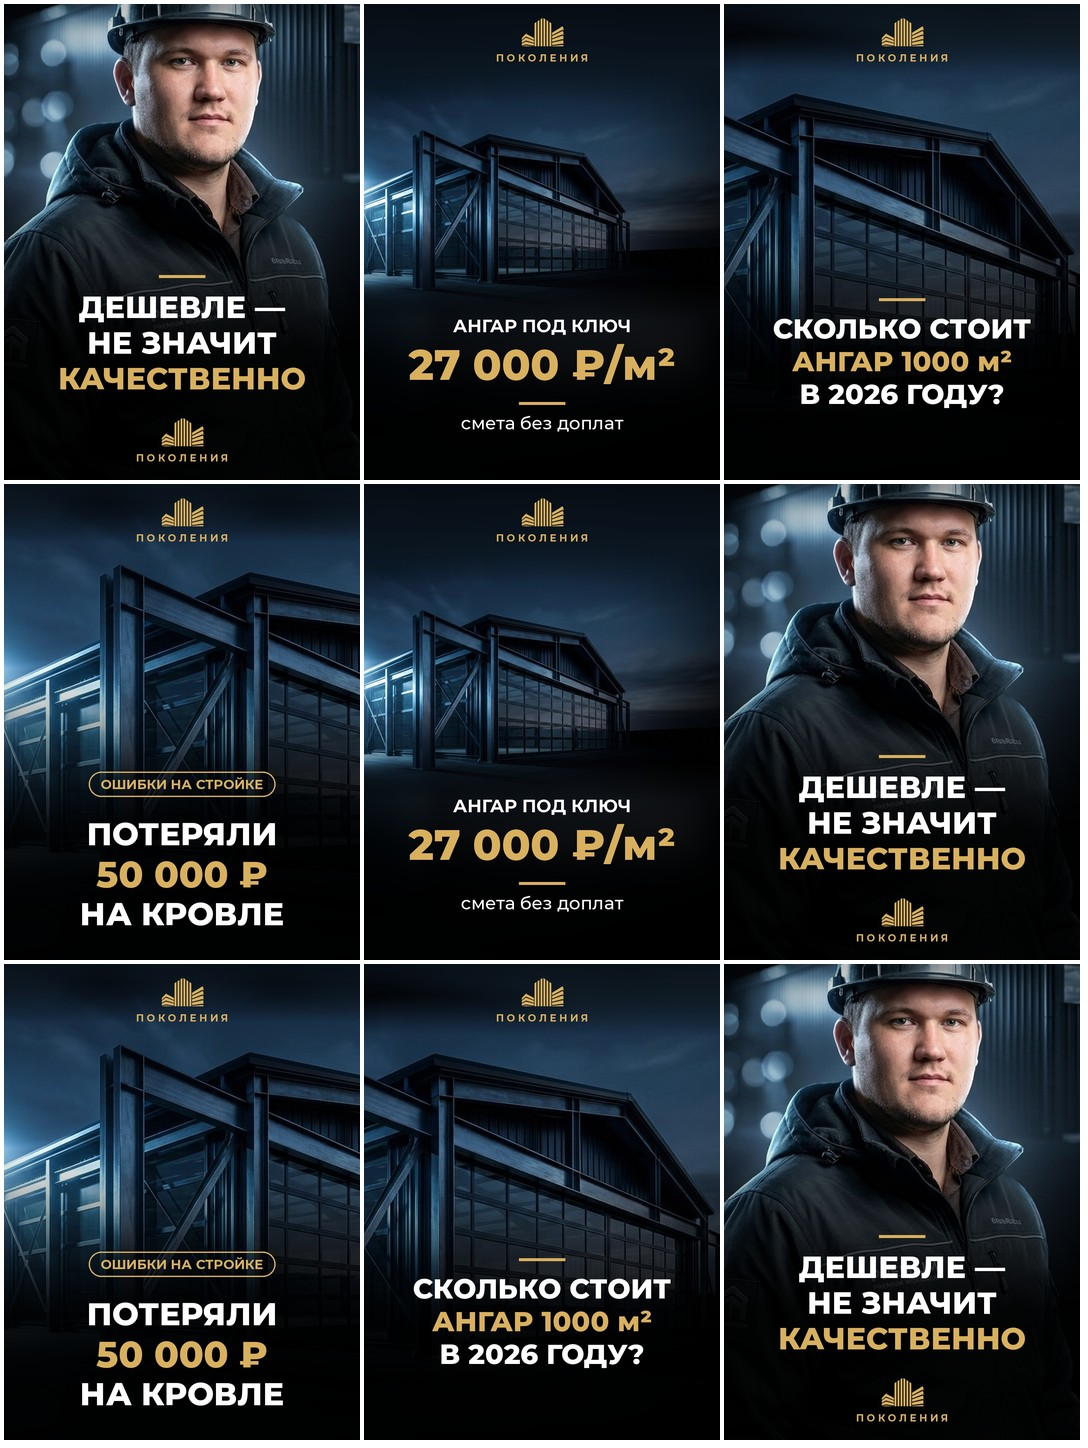
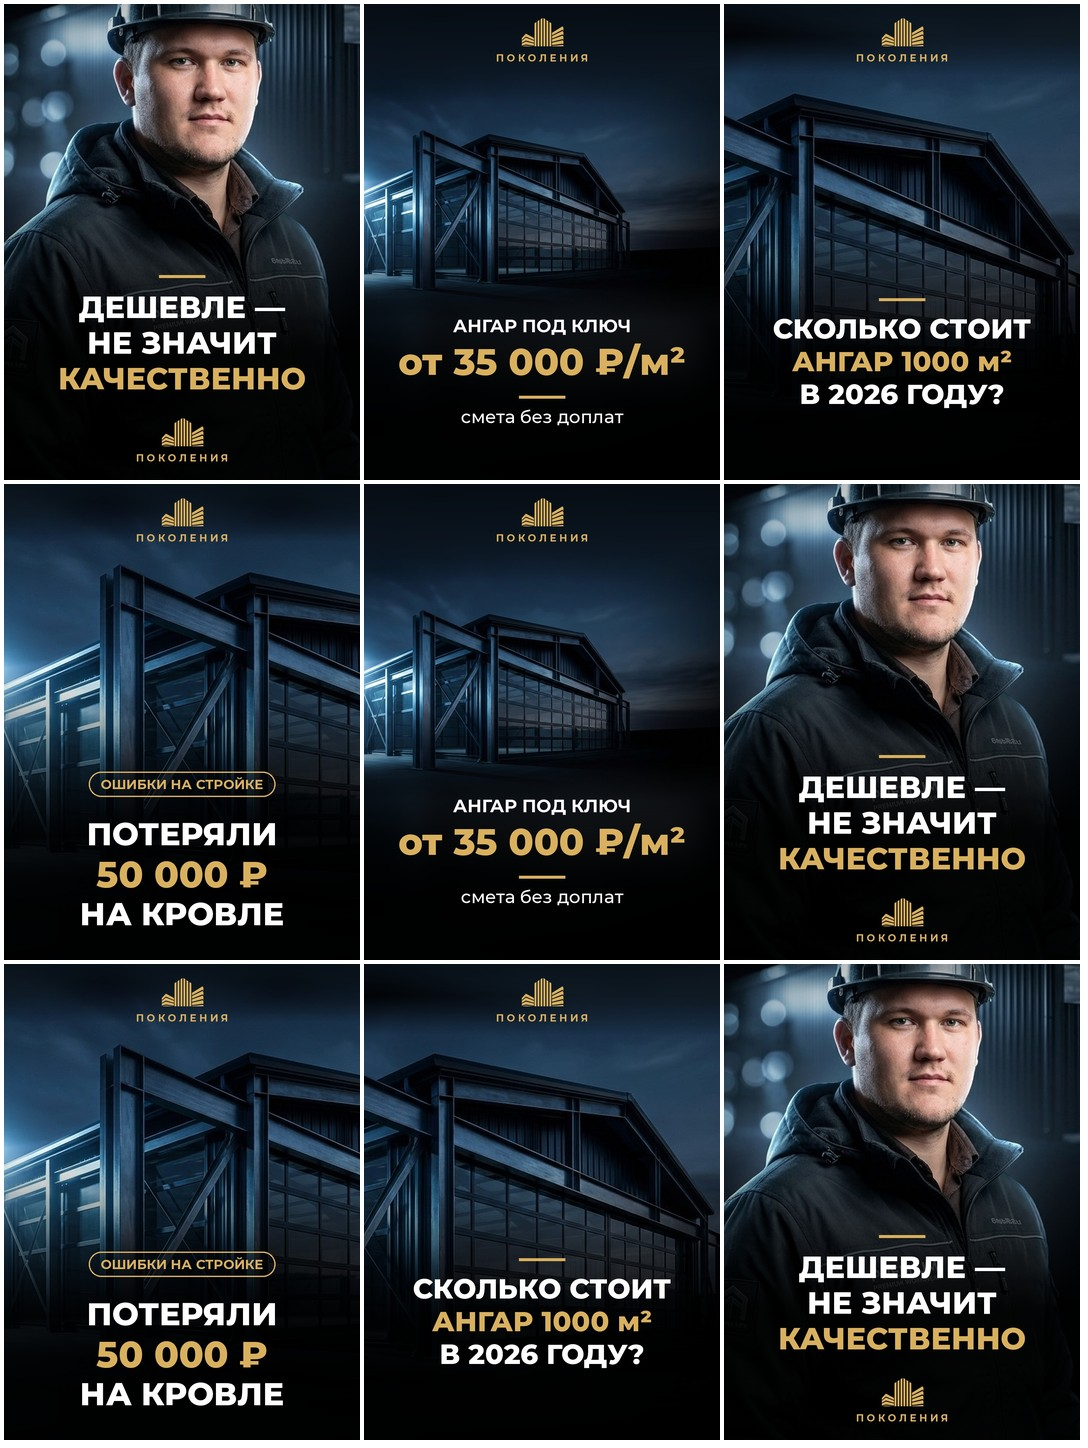
Use public price from 35000 per m2 on covers and in product context
Claude-Session: https://claude.ai/code/session_019hh1tyQfnmNP9Rdxadr1Bk

Changed region(s): [[0.375, 0.2175, 0.625, 0.3108], [0.375, 0.5594, 0.625, 0.6526]]

diff --git a/brand/covers.py b/brand/covers.py
@@ -63,7 +63,7 @@ im.convert('RGB').save(OUT+'1_prorab.jpg',quality=92)
 # 2 Цифра
 im=shade(fit_bg(hang,box_y=420),start=1000); im=brand(im)
 y=lines(im,1180,[('АНГАР ПОД КЛЮЧ',54,WHT,'700')]); 
-y=lines(im,y+10,[('27 000 ₽/м²',128,GOLD,'800')]); accent(im,y+40); lines(im,y+70,[('смета без доплат',54,WHT,'500')])
+y=lines(im,y+10,[('от 35 000 ₽/м²',112,GOLD,'800')]); accent(im,y+40); lines(im,y+70,[('смета без доплат',54,WHT,'500')])
 im.convert('RGB').save(OUT+'2_cifra.jpg',quality=92)
 
 # 3 Вопрос

diff --git a/.agents/product-marketing.md b/.agents/product-marketing.md
@@ -1,6 +1,6 @@
 # Product Marketing Context
 
-**Document version:** v1.4 (черновик — собран по Instagram, ждёт правок владельца)
+**Document version:** v1.5 (черновик — собран по Instagram, ждёт правок владельца)
 **Last updated:** 2026-11-17
 
 > Источник: профиль и последние 25 публикаций @prorab.artem (`python instagram.py profile`).
@@ -11,7 +11,7 @@
 **What it does:** РСК «Поколения» проектирует и строит ангары, склады, производственные здания, торговые объекты, автосервисы и ФОКи из металлоконструкций и сэндвич-панелей. Берёт на себя полный цикл (9 этапов) с одной командой и одним контуром ответственности. Делает кровельные работы (фальцевая кровля) и ремонт.
 **Product category:** строительство ангаров / быстровозводимых зданий / складов под ключ; генподряд.
 **Product type:** услуга (B2B, частично B2C — владельцы участков).
-**Business model:** проектная работа по смете; бесплатный расчёт по проекту как вход в воронку. Средняя цена: 27 000 ₽ за м² (со слов владельца). Пример: здание 1 000 м² ≈ 27 млн ₽. **[уточнить]** предоплата, этапность оплаты.
+**Business model:** проектная работа по смете; бесплатный расчёт по проекту как вход в воронку. Публичная цена (для обложек и рекламы): **от 35 000 ₽ за м²** — решение владельца 17.11.2026. Ранее владелец называл среднюю 27 000 ₽/м²; в контенте используем только «от 35 000 ₽/м²». **[уточнить]** предоплата, этапность оплаты.
 **Регион:** главные — Москва и Санкт-Петербург (с областями); дополнительно — Мурманск, Омск, юг России. Контент делаем в первую очередь под МСК и СПб.
 **Контакты:** директ @prorab.artem (кодовое слово «РАСЧЁТ»), +7 981 908-22-97, rsk-47@bk.ru, Telegram t.me/spbpokoleniya.
 
@@ -120,6 +120,7 @@
 - Дубли одного ролика в один день (3 версии «Сколько стоит ангар») делят охват — лучше один сильный ролик.
 
 ## Changelog
+- v1.5 (2026-11-17): публичная цена — от 35 000 ₽/м²; фирменный стиль чёрный + золото, слоган «All-inclusive в строительстве».
 - v1.4 (2026-11-17): главные регионы — МСК и СПб; конкуренты по Москве.
 - v1.3 (2026-11-17): подтверждено — 27 000 ₽/м².
 - v1.2 (2026-11-17): аудитория (малый и крупный бизнес), главное отличие — прозрачная смета, анализ конкурентов.
